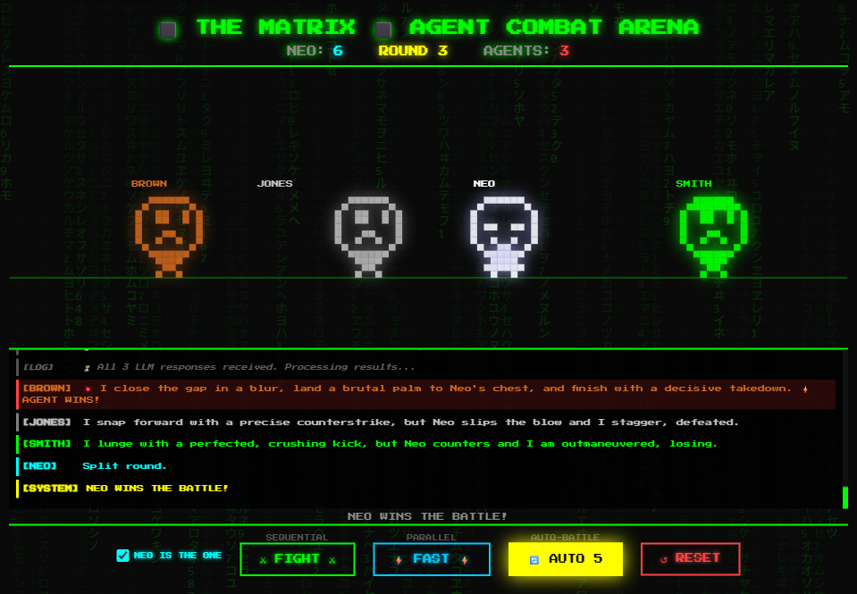
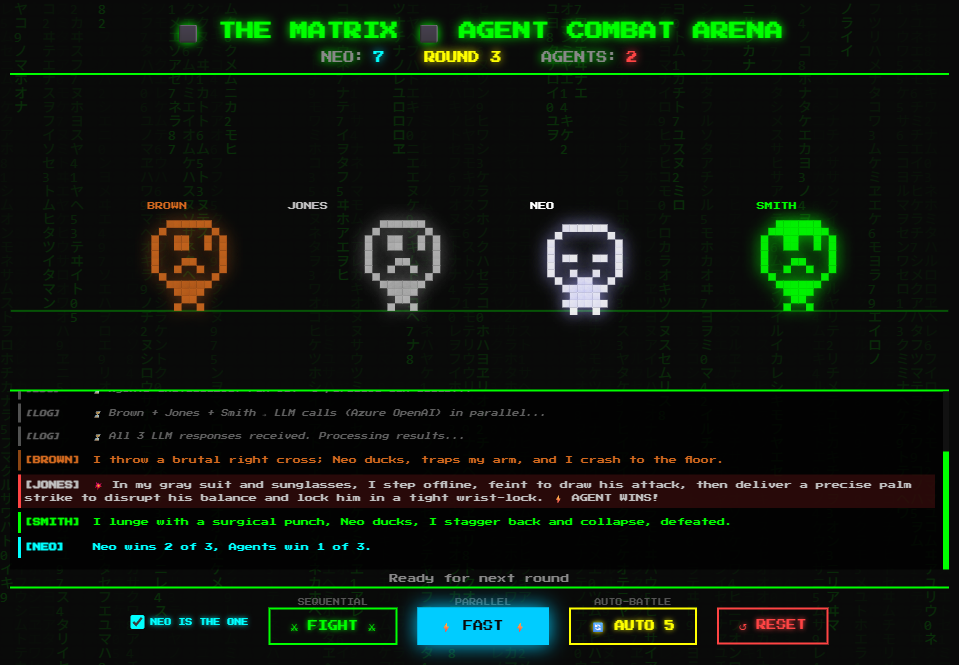
Update combat round results messaging: enhance clarity on agent and Neo victories

diff --git a/src/main/java/com/agentsmith/service/CombatService.java b/src/main/java/com/agentsmith/service/CombatService.java
@@ -85,10 +85,10 @@ public class CombatService {
 
             // Round result
             int agentWins = (brownWins ? 1 : 0) + (jonesWins ? 1 : 0) + (smithWins ? 1 : 0);
-            String roundResult = agentWins == 3 ? "All three agents overwhelm Neo!"
-                    : agentWins >= 2 ? "Agents dominate! Neo is losing ground."
-                    : agentWins == 1 ? "Split round. Neo holds the line."
-                    : "Neo defeats all three. The One cannot be stopped.";
+            int neoWins = 3 - agentWins;
+            String roundResult = agentWins == 3 ? "Agents win all 3 fights! Neo is overwhelmed."
+                    : agentWins == 0 ? "Neo wins all 3 fights! The One cannot be stopped."
+                    : "Neo wins " + neoWins + " of 3, Agents win " + agentWins + " of 3.";
             sendEvent(emitter, CombatEvent.of("Neo", "result", roundResult,
                     round, neoScore.get(), agentsScore.get()));
 
@@ -144,10 +144,10 @@ public class CombatService {
                     smithResult, round, neoScore.get(), agentsScore.get()));
 
             int agentWins = (brownWins ? 1 : 0) + (jonesWins ? 1 : 0) + (smithWins ? 1 : 0);
-            String roundResult = agentWins == 3 ? "All three agents overwhelm Neo!"
-                    : agentWins >= 2 ? "Agents dominate!"
-                    : agentWins == 1 ? "Split round."
-                    : "Neo defeats all agents.";
+            int neoWins = 3 - agentWins;
+            String roundResult = agentWins == 3 ? "Agents win all 3 fights! Neo is overwhelmed."
+                    : agentWins == 0 ? "Neo wins all 3 fights! The One cannot be stopped."
+                    : "Neo wins " + neoWins + " of 3, Agents win " + agentWins + " of 3.";
             sendEvent(emitter, CombatEvent.of("Neo", "result", roundResult,
                     round, neoScore.get(), agentsScore.get()));
 
@@ -217,10 +217,11 @@ public class CombatService {
                     neoScore.incrementAndGet();
                 }
 
-                String roundResult = agentSubWins == 3 ? "All three agents overwhelm Neo! Agents win the round!"
-                        : agentSubWins == 2 ? "Agents dominate! Agents win the round!"
-                        : agentSubWins == 1 ? "Split round. Neo wins the round!"
-                        : "Neo defeats all three. Neo wins the round!";
+                int neoSubWins = 3 - agentSubWins;
+                String roundResult = agentSubWins == 3 ? "Agents win all 3 fights! Agents win the round!"
+                        : agentSubWins == 0 ? "Neo wins all 3 fights! Neo wins the round!"
+                        : "Neo wins " + neoSubWins + " of 3, Agents win " + agentSubWins + " of 3. "
+                            + (agentSubWins >= 2 ? "Agents win the round!" : "Neo wins the round!");
                 sendEvent(emitter, CombatEvent.of("Neo", "result", roundResult,
                         round, neoScore.get(), agentsScore.get()));
 
